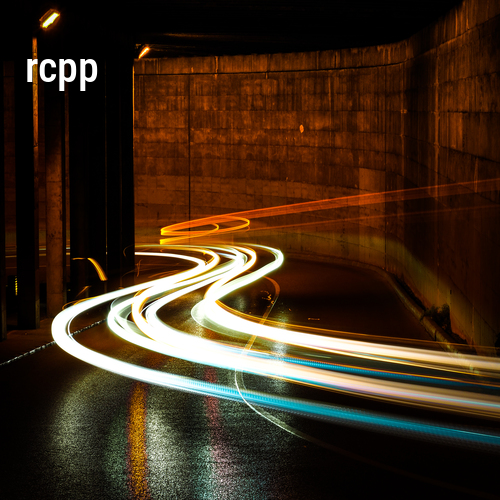
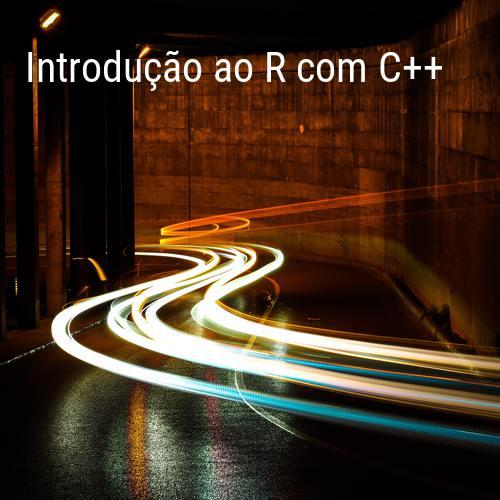
abrindo turma rcpp

diff --git a/content/cursos/rcpp.html b/content/cursos/rcpp.html
@@ -1,0 +1,120 @@
+---
+title: "Introdução ao R com C++"
+data: "21 de novembro e 28 de novembro, dois sábados, das 9h00 às 13h00"
+hora: "2 aulas, 8 horas de curso"
+local: "Online"
+img: "img/cursos/rcpp.jpg"
+preco: "R$400,00"
+banner: "img/cursos/rcpp-banner.jpg"
+desc: "Acelere seus scripts integrando o R com o C++"
+ordem: "50"
+id: "31"
+aberto: "true"
+unit_price: "40000"
+params:
+  id_unico: 10
+---
+
+
+
+<header class="section-header">
+ <h4>Conheça o curso</h4>
+</header>
+<p>O R é uma linguagem de programação criada para a Ciência de Dados. Ela é uma das principais ferramentas utilizadas para manipulação, visualização e modelagem de dados, além de auxiliar na divulgação dos resultados com a criação de relatórios, apresentações e dashboards. O R conta com uma comunidade super ativa, que desenvolve novas funcionalidades em ritmo acelerado, deixando a linguagem sempre atualizada com as metodologias mais recentes.</p>
+<p>O objetivo do curso é trazer a experiência de como aumentar a eficiência computacional do R. O C++ (leia-se C plus plus ou simplesmente Cpp) é uma linguagem de programação de baixo nível que roda algoritmos muito mais rápido que o R, mas que tem uma sintaxe um pouco mais difícil de utilizar. Através dos pacotes <code>{Rcpp}</code> e <code>{cpp11}</code> veremos como juntar o que há de melhor nos dois mundos: a facilidade de utilização do R com a eficiência computacional do Cpp.</p>
+<h6 style="color: #489d51">Você sairá deste curso apta(o) a:</h6>
+<div class="voce-saira">
+<ul>
+<li>Escrever algoritmos simples em C++</li>
+<li>Substituir uma função escrita em R por uma função escrita em C++, chamando-a pelo R, usando o pacote <code>{Rcpp}</code></li>
+<li>Utilizar as funções no seu pacote</li>
+<li>Trabalhar com matrizes e arrays no Cpp</li>
+<li>Utilizar funções de bibliotecas externas feitas em C++</li>
+<li>Navegar pelo maravilhoso universo do R com C++ através do pacote <code>{cpp11}</code></li>
+</ul>
+</div>
+<p><hr/><header class="section-header">
+ <h4>Conteúdo</h4>
+</header></p>
+<div class="row">
+<div class="column-esq">
+<ul>
+<li><strong>Traduzindo loops do R para Cpp</strong></li>
+<li><strong>Manipulando atributos de objetos do R</strong></li>
+<li><strong>Manipulando matrizes e arrays</strong>
+<ul>
+<li>O pacote <code>{RcppArmadillo}</code></li>
+</ul></li>
+<li><strong>Colocando Cpp no seu pacote</strong>
+<ul>
+<li>Exemplo do <code>{ranger}</code></li>
+</ul></li>
+<li><strong>Integrando seu código com outras bibliotecas Cpp</strong>
+<ul>
+<li>Exemplo do <code>{torch}</code></li>
+</ul></li>
+<li><strong>Tópicos extras</strong>
+<ul>
+<li>O novíssimo <code>{cpp11}</code></li>
+</ul></li>
+</ul>
+</div>
+<div class="column-dir">
+<div class="row justify-content-center">
+
+</div>
+</div>
+</div>
+<p><hr/><header class="section-header">
+ <h4>Professores</h4>
+</header></p>
+<div class="row justify-content-center">
+<div class="tooltip-wrap2" align="center" style="margin-right: 50px; margin-left: 50px;">
+<img src="/img/equipe/caio.jpg" width = "150px" height = "150px" style="border-radius: 50%;">
+<div class="tooltip-content">
+<p>
+Mestrando em Ciência da Computação no IME-USP e cientista de dados na Terranova Consultoria. Programador desde os 15 anos, começou a se apaixonar pelo R em 2016 e agora não fala em outra coisa. Metido a designer, maníaco da organização e metade texano
+</p>
+</div>
+<br/><span style="font-weight: bold; text-transform: uppercase; font-size: 18px;">Caio Lente</span><br/><a href="NA" class="twitter" target="_blank"><i class="fa fa-twitter"></i></a>  <a href="https://github.com/clente" class="github" target="_blank"><i class="fa fa-github"></i></a>  <a href="https://www.linkedin.com/in/clente/" class="linkedin" target="_blank"><i class="fa fa-linkedin"></i></a>
+</div>
+  
+<div class="tooltip-wrap2" align="center" style="margin-right: 50px; margin-left: 50px;">
+<img src="/img/equipe/daniel.jpeg" width = "150px" height = "150px" style="border-radius: 50%;">
+<div class="tooltip-content">
+<p>
+Bacharel em Estatística pelo IME. Trabalha diariamente com R há mais de 6 anos. É interessado por tudo que tem a ver com R, Machine Learning e Estatística
+</p>
+</div>
+<br/><span style="font-weight: bold; text-transform: uppercase; font-size: 18px;">Daniel Falbel</span><br/><a href="https://twitter.com/dfalbel" class="twitter" target="_blank"><i class="fa fa-twitter"></i></a>  <a href="https://github.com/dfalbel" class="github" target="_blank"><i class="fa fa-github"></i></a>  <a href="https://www.linkedin.com/in/daniel-falbel-54b1a834/" class="linkedin" target="_blank"><i class="fa fa-linkedin"></i></a>
+</div>
+</div>
+<p><hr/><header class="section-header">
+ <h4>Como será o curso?</h4>
+</header></p>
+<ul>
+<li>Aulas online, em tempo real, com um(a) professor(a) e um(a) monitor(a).</li>
+<li>Exercícios “para casa” para praticar e tirar dúvidas.</li>
+<li>Certificado ao final do curso (sujeito à entrega de atividades solicitadas pelos professores).</li>
+<li>Gravação das aulas disponíveis por pelo menos 1 ano.</li>
+</ul>
+<p><hr/><header class="section-header">
+ <h4>Pré-requisitos</h4>
+</header></p>
+<ul>
+<li><p>Interesse por Ciência de Dados;</p></li>
+<li><p>Conhecimento intermediário sobre lógica de programação e estruturas de dados (vetores, matrizes), independentemente da linguagem;</p></li>
+<li><p>Conhecimento intermediário da linguagem R;</p></li>
+<li><p>Conhecimento básico de pacotes em R (Ver <a href="https://r-pkgs.org" class="uri">https://r-pkgs.org</a>).</p></li>
+</ul>
+<p><hr/><header class="section-header">
+ <h4>O que eu preciso ter?</h4>
+</header></p>
+<ul>
+<li><p>Um notebook com acesso a internet e permissão para instalar novos programas;</p></li>
+<li><p>Se você utilizar Windows, <a href="https://cran.r-project.org/bin/windows/Rtools/">RTools</a> instalado.</p></li>
+<li><p>Se utilizar Linux, instalar o <code>r-base-dev</code>.</p></li>
+<li><p>Se utilizar o Mac, instalar o Mac Xcode Command Line Tools.</p></li>
+<li><p>Uma conta de e-mail Google para acessar o <a href="https://classroom.google.com/">Google Classroom</a>;</p></li>
+<li><p>Últimas versões do <a href="https://cran.r-project.org/">R</a> e do <a href="https://www.rstudio.com/products/rstudio/download/">RStudio</a> instaladas 😻.</p></li>
+</ul>
